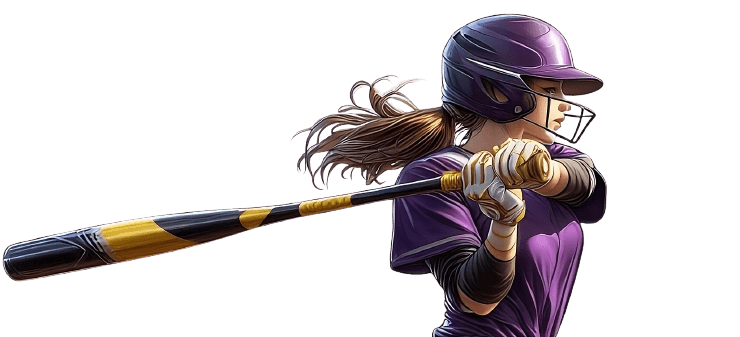
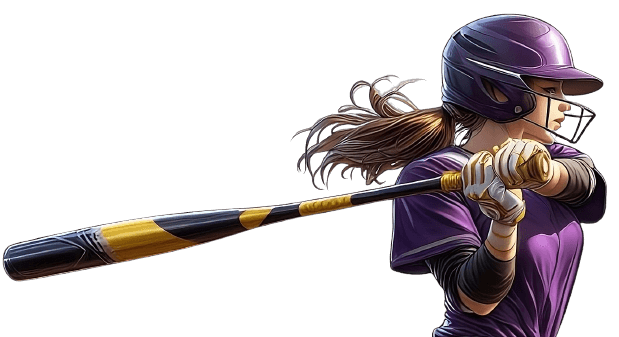
Add GO button to Home Cached Active Games results

diff --git a/src/app/features/all-active-games/all-active-games.component.ts b/src/app/features/all-active-games/all-active-games.component.ts
@@ -1,6 +1,5 @@
 import { Component } from '@angular/core';
 import { CommonModule } from '@angular/common';
-import { SoftballGame } from '../../shared/models/SoftballGame.model';
 import { SoftballGameApiService } from '../../shared/services/softball-game-api.service';
 import { MatCardModule } from '@angular/material/card';
 import { SoftballGameListComponent } from '../softball-game-list/softball-game-list.component';
@@ -15,10 +14,6 @@ import { SoftballGameListComponent } from '../softball-game-list/softball-game-l
 export class AllActiveGamesComponent {
   listTitle = 'Active Softball Games';
   listSubTitle = 'Select a game to see the current stats';
-  softballGames: SoftballGame[] = [];
-  constructor(private service: SoftballGameApiService) {
-    this.service
-      .getAllActiveGames()
-      .subscribe((res) => (this.softballGames = res));
-  }
+  $softballGames = this.service.$softballGames;
+  constructor(private service: SoftballGameApiService) {}
 }

diff --git a/src/app/features/home/home.component.ts b/src/app/features/home/home.component.ts
@@ -4,6 +4,9 @@ import { MatDividerModule } from '@angular/material/divider';
 import { SoftballGameListComponent } from '../softball-game-list/softball-game-list.component';
 import { SoftballGame } from '../../shared/models/SoftballGame.model';
 import { MatCardModule } from '@angular/material/card';
+import { MatButtonModule } from '@angular/material/button';
+import { MatIconModule } from '@angular/material/icon';
+import { RouterModule } from '@angular/router';
 
 @Component({
   selector: 'app-home',
@@ -12,8 +15,11 @@ import { MatCardModule } from '@angular/material/card';
     CommonModule,
     MatDividerModule,
     MatCardModule,
+    MatButtonModule,
+    MatIconModule,
     DatePipe,
     SoftballGameListComponent,
+    RouterModule,
   ],
   templateUrl: './home.component.html',
   styleUrl: './home.component.scss',

diff --git a/src/app/shared/services/softball-game-api.service.ts b/src/app/shared/services/softball-game-api.service.ts
@@ -1,13 +1,19 @@
 import { HttpClient, HttpParams } from '@angular/common/http';
 import { Injectable } from '@angular/core';
-import { Observable } from 'rxjs';
+import { BehaviorSubject, Observable } from 'rxjs';
 import { SoftballGame } from '../models/SoftballGame.model';
 
 @Injectable({
   providedIn: 'root',
 })
 export class SoftballGameApiService {
-  constructor(private http: HttpClient) {}
+  $softballGames: BehaviorSubject<SoftballGame[]> = new BehaviorSubject<
+    SoftballGame[]
+  >([]);
+
+  constructor(private http: HttpClient) {
+    this.getAllActiveGames().subscribe((res) => this.$softballGames.next(res));
+  }
 
   getAllActiveGames(): Observable<SoftballGame[]> {
     return this.http.get<SoftballGame[]>(`/api/getAllActiveGames`);

diff --git a/src/app/features/home/home.component.scss b/src/app/features/home/home.component.scss
@@ -46,7 +46,7 @@ main {
       rgba(103, 7, 215, 0.75),
       rgba(255, 215, 0, 0.5)
     ),
-    url("/assets/images/batting-girl-trimmed.png");
+    url("/assets/images/batting-girl.png");
   background-repeat: no-repeat;
   background-size: cover;
   background-position: center;
@@ -69,6 +69,13 @@ main {
   mat-card-subtitle {
     color: white;
   }
+  mat-card-subtitle {
+    margin-bottom: 0.5rem;
+  }
+}
+
+.to-all-games-btn {
+  width: fit-content;
 }
 
 .gradient-bg-color {
@@ -233,8 +240,12 @@ main {
   }
 
   .content {
+    justify-items: center;
     mat-card-title {
       font-size: 1.5rem;
+    }
+    mat-card-subtitle {
+      margin-bottom: 0rem;
     }
   }
 }

diff --git a/src/app/features/all-active-games/all-active-games.component.html b/src/app/features/all-active-games/all-active-games.component.html
@@ -19,7 +19,7 @@
     </mat-card-header>
     <mat-card-content class="content">
       <div class="divider" role="separator" aria-label="Divider"></div>
-      <app-softball-game-list [softballGames]="softballGames" />
+      <app-softball-game-list [softballGames]="$softballGames | async" />
     </mat-card-content>
   </mat-card>
 </main>

diff --git a/src/app/features/home/home.component.html b/src/app/features/home/home.component.html
@@ -9,6 +9,10 @@
         <mat-card-subtitle>
           {{ listSubTitle }}
         </mat-card-subtitle>
+        <a mat-fab extended class="to-all-games-btn" routerLink="active-games">
+          GO
+          <mat-icon>arrow_forward</mat-icon>
+        </a>
       </mat-card-content>
     </mat-card>
   </div>

diff --git a/src/app/features/softball-game-list/softball-game-list.component.ts b/src/app/features/softball-game-list/softball-game-list.component.ts
@@ -14,5 +14,5 @@ import { RouterModule } from '@angular/router';
 })
 export class SoftballGameListComponent {
   @Input() title: string = '';
-  @Input() softballGames: SoftballGame[] = [];
+  @Input() softballGames: SoftballGame[] | null = [];
 }
